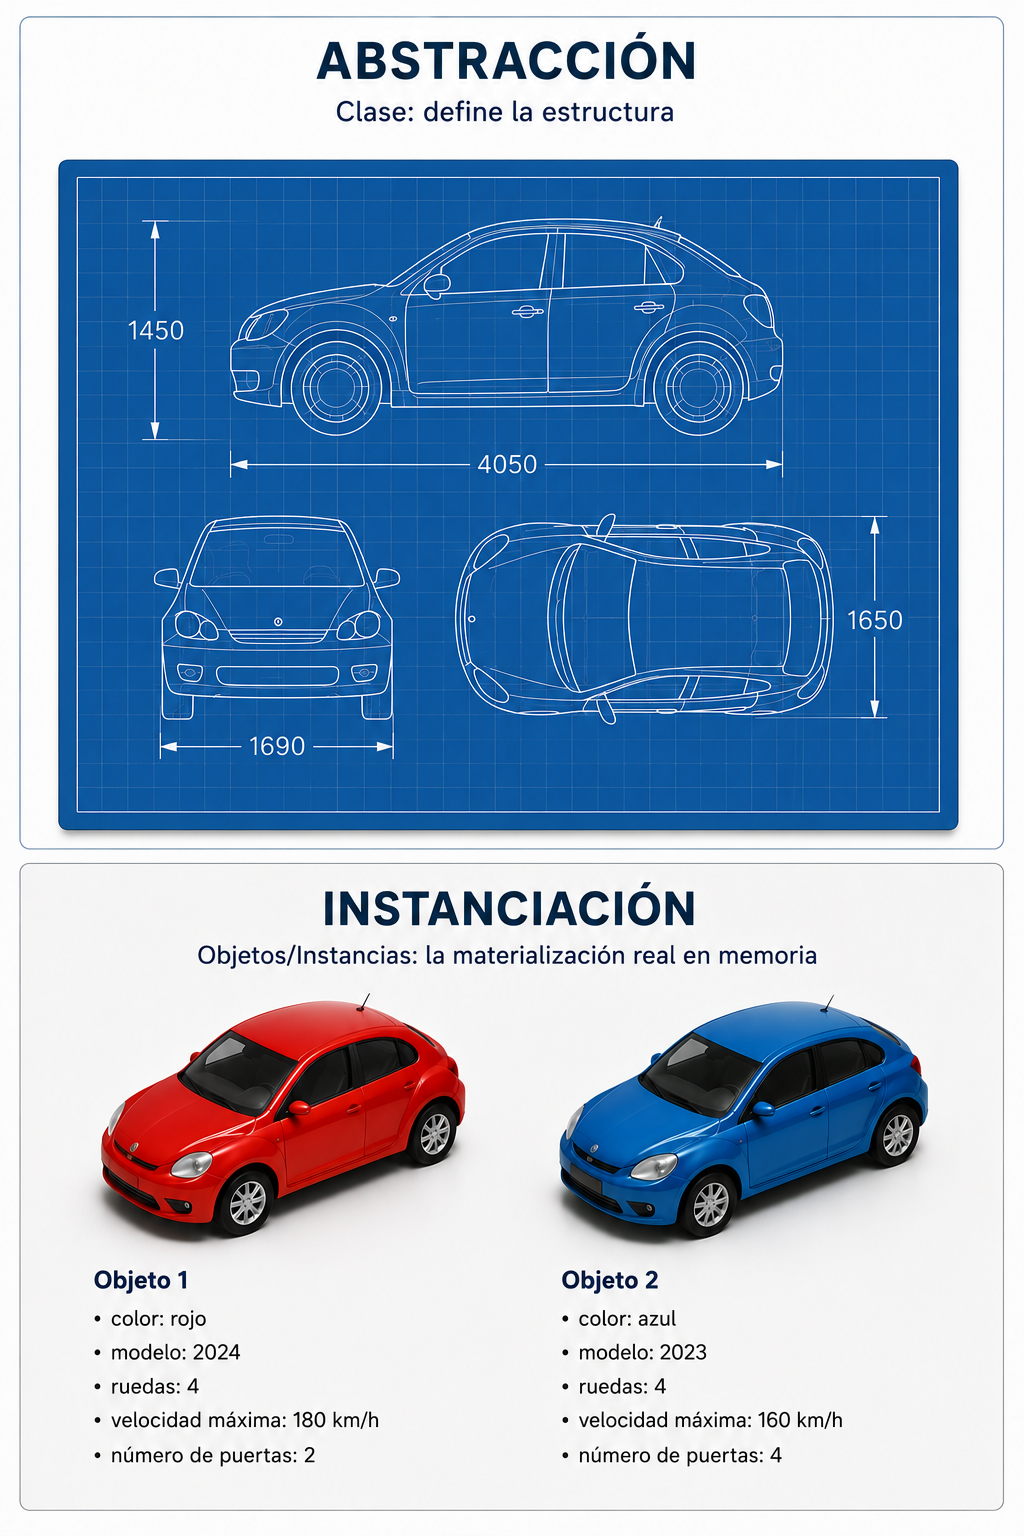
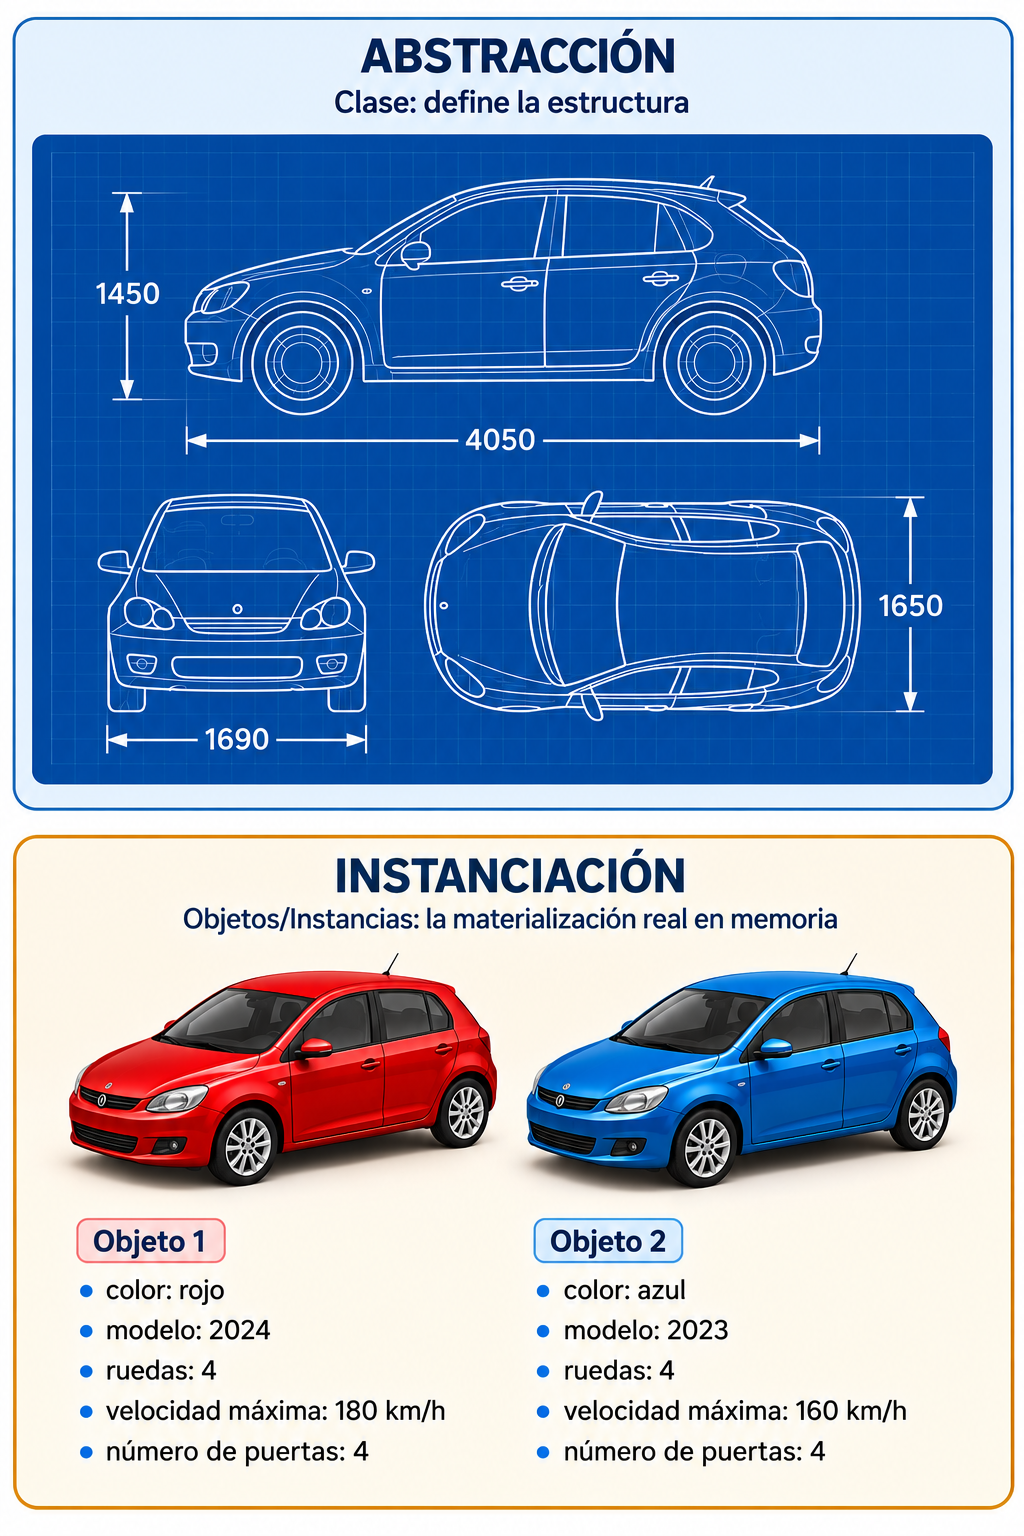
maquetando

diff --git a/estilos/estilo.css b/estilos/estilo.css
@@ -71,6 +71,7 @@ aside {
     padding: 0.5em;
     background-color: #f0f6ff;
     border-radius: 5px;
+    display: flow-root;
 }
 
 .aside .definicion { padding: 0.5em; }

diff --git a/estilos/tema_02.css b/estilos/tema_02.css
@@ -9,6 +9,7 @@ table.tabla-datos {
   font-size: 10pt;
   break-inside: avoid;
   margin: 0 auto;
+  display: flow-root;
 }
 
 table.tabla-datos th {

diff --git a/temas/tema_02.md b/temas/tema_02.md
@@ -581,7 +581,7 @@ Identificamos en el capítulo anterior dos fases de programación: la fase de re
 
 En la fase de resolución de problemas, por ejemplo, un **objeto** es una entidad o algo que tiene sentido en el contexto del problema en cuestión. Un grupo de objetos, con propiedades y comportamientos similares, se describen como una clase de objeto o **clase**, para abreviar. La resolución de problemas orientados a objetos implica aislar los objetos que componen el problema. Los objetos interactúan unos con otros mediante el envío de mensajes.
 
-<figure class="img-lateral-izd">
+<figure class="img-lateral-izq">
     <img src="../imagenes/02_06_molde.png" alt="Analogía del molde: planos y negativo de un coche frente a dos vehículos">
 </figure>
 
@@ -968,11 +968,11 @@ char inicial;    // Inicial del nombre de una persona
 char miCaracter; // Un lugar para almacenar una letra
 </pre>
 
+las siguientes sentencias de asignación son válidas:
+
 <figure class="img-cajas">
     <img src="../imagenes/02_05_caja_char_b.png" alt="Carácter dentro de una caja: analogía de variable conteniendo valor">
 </figure>
-
-las siguientes sentencias de asignación son válidas:
 
 <pre class="codigo-java">
 nombre = "Antonio";  // Literal de cadena asignado a String
